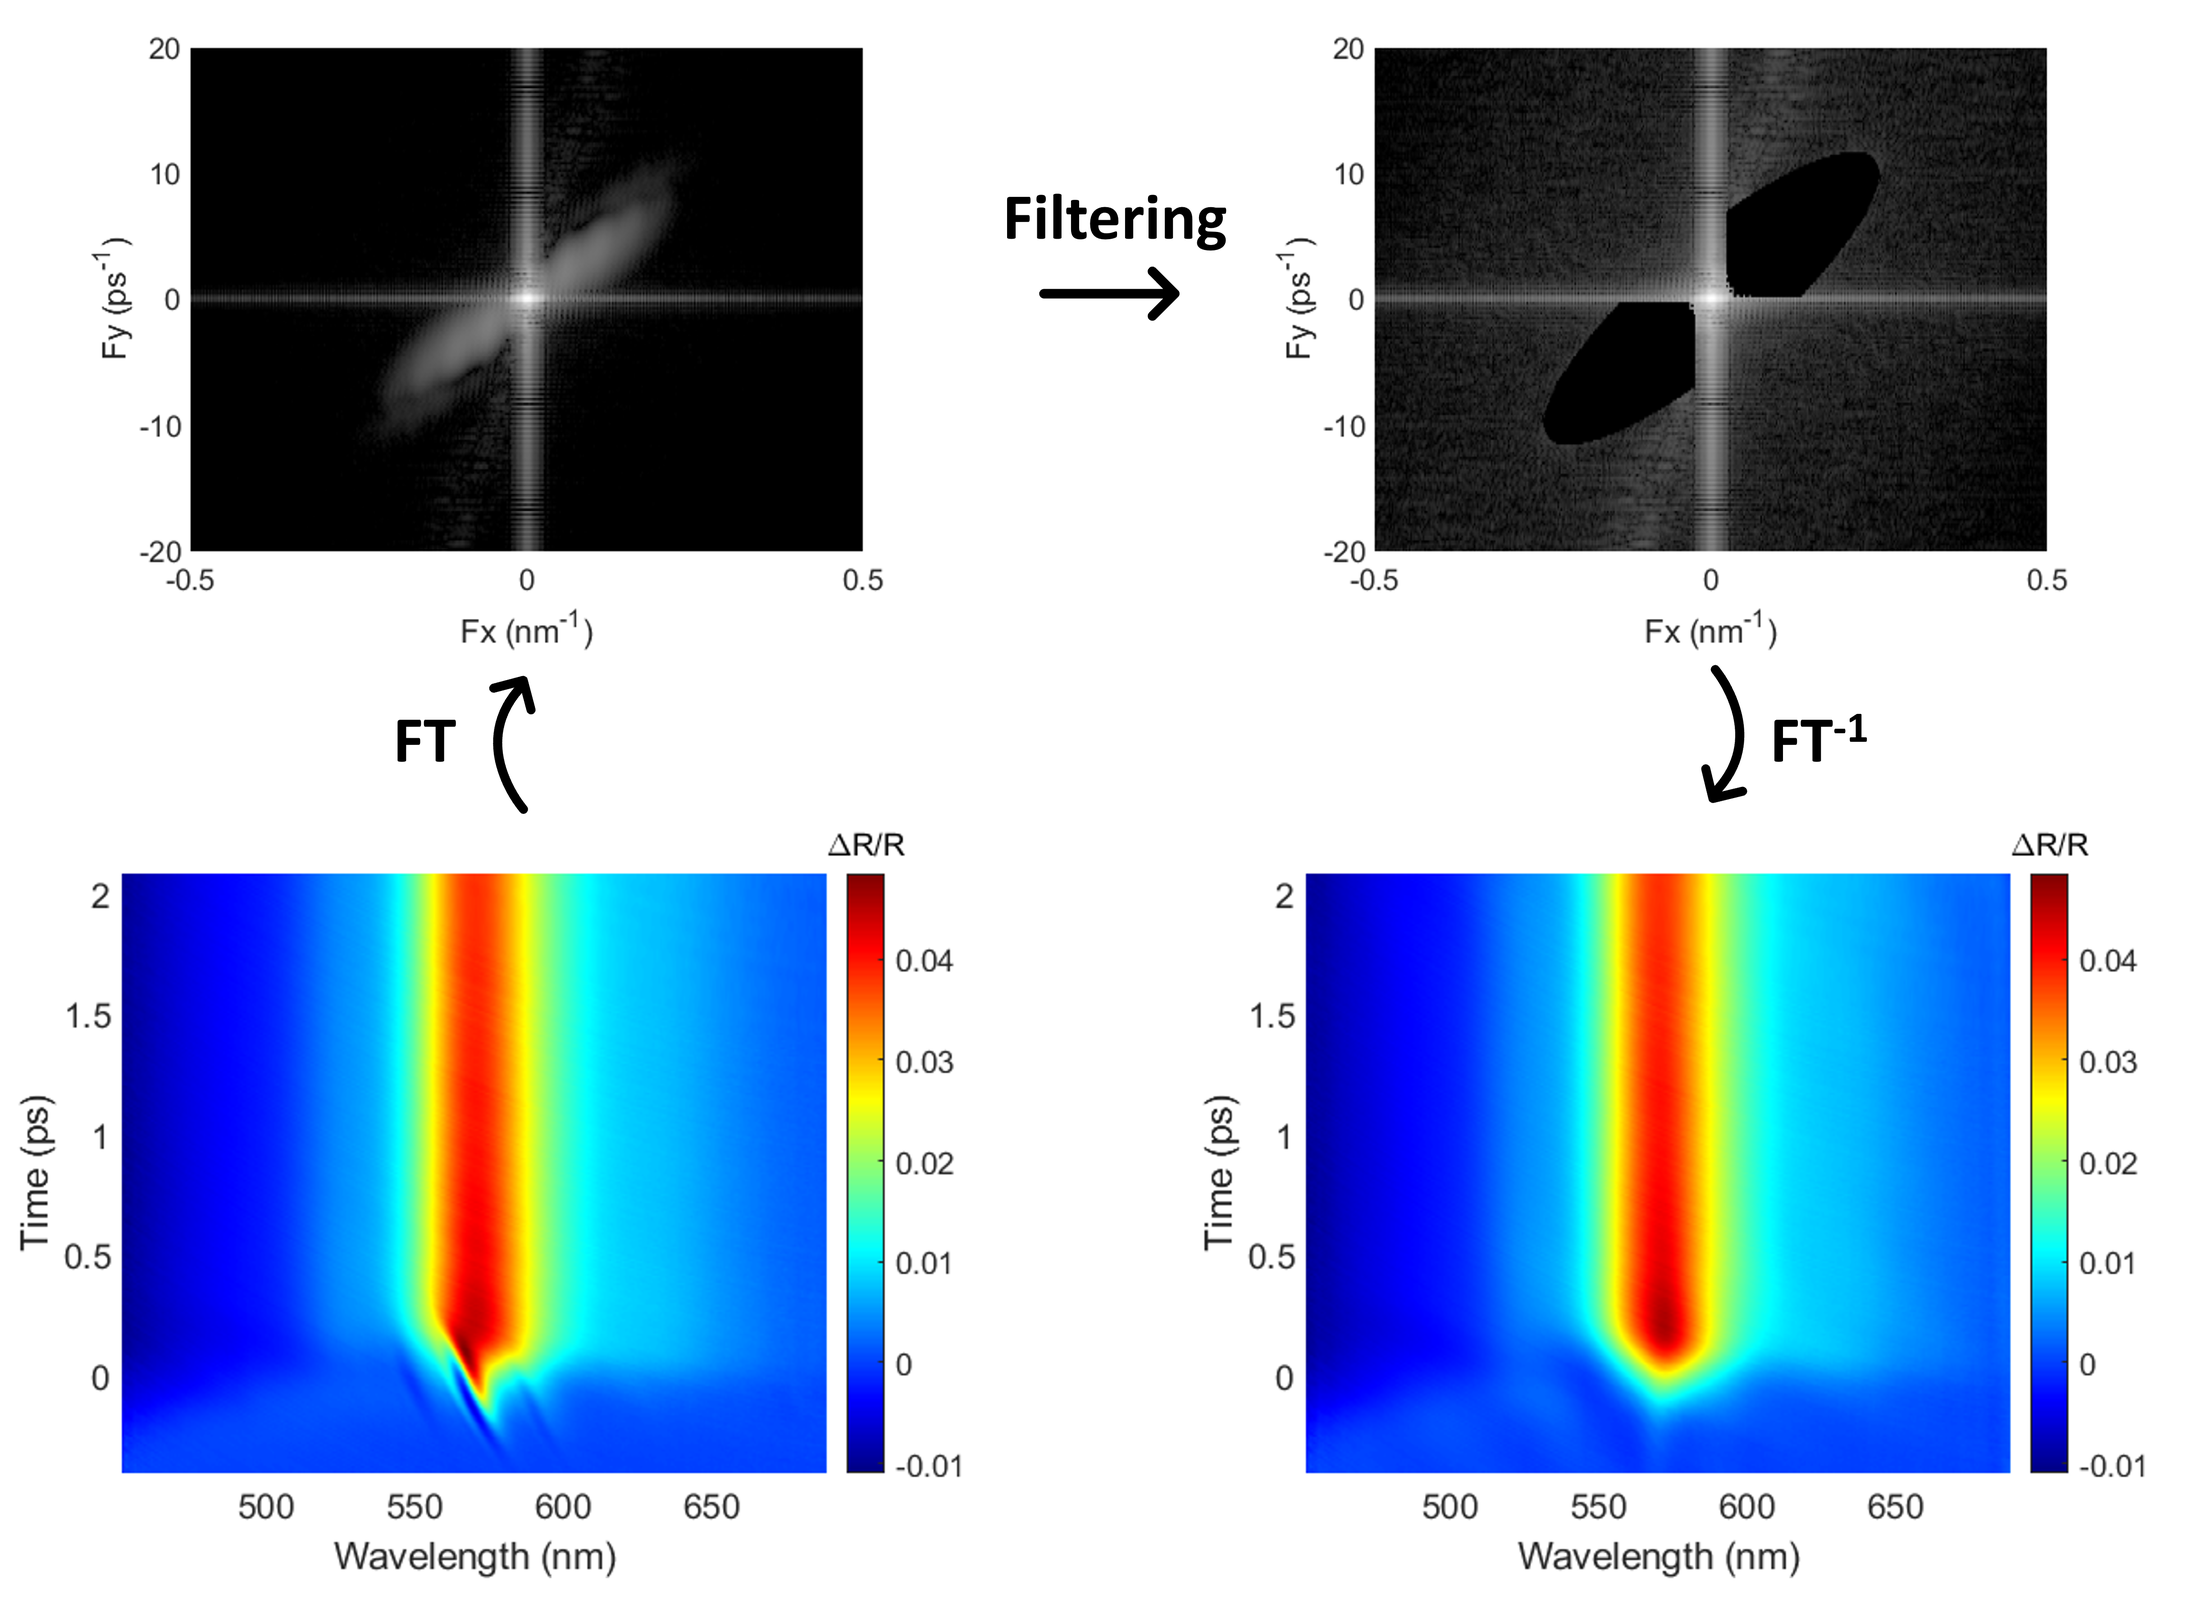
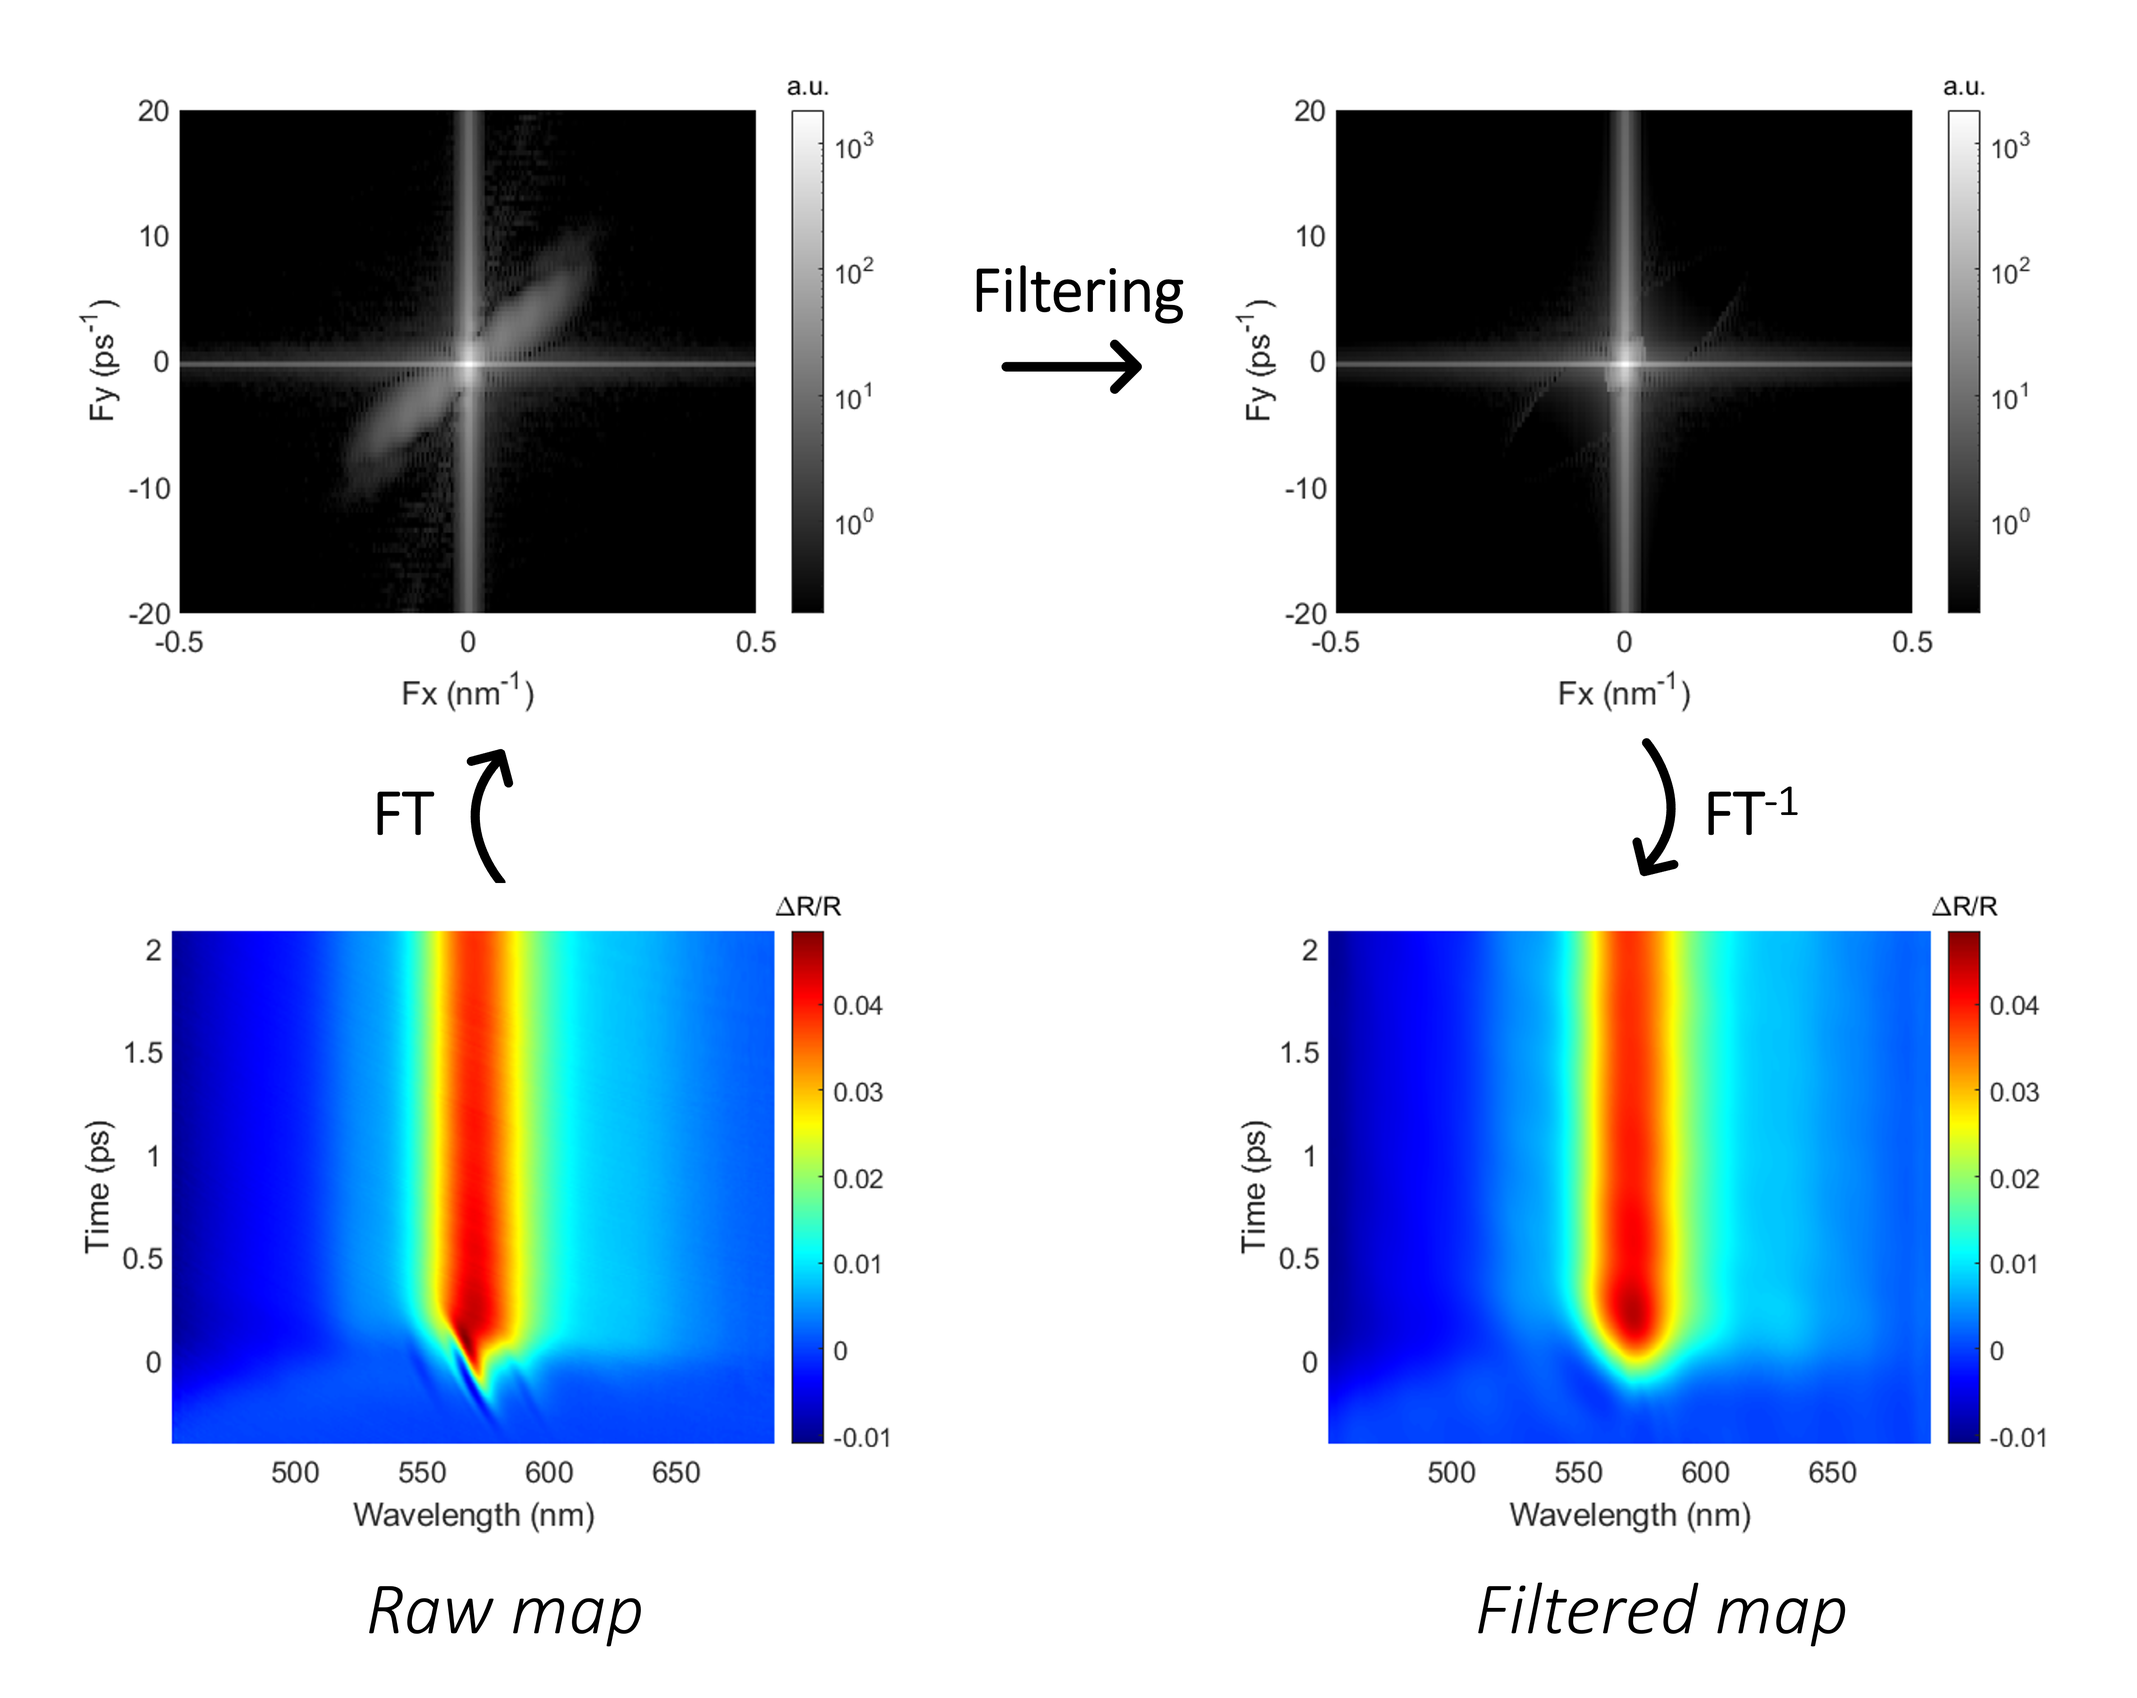
Updated README.md and LICENSE files

diff --git a/transient_grating_artifact_filter.py b/transient_grating_artifact_filter.py
@@ -249,7 +249,7 @@ class Filter:
             self.ellipse_short_axis_radius,
             self.img_binary_ellipse_rgb,
         ) = self.define_filter_ellipse()
-        self.f: np.ndarray = self.build_filter()
+        self.f: np.ndarray = self.build_binary_image_filter()
 
     @staticmethod
     def binarize_image(img: np.ndarray, threshold: float) -> np.ndarray:
@@ -314,6 +314,64 @@ class Filter:
             )
         else:
             return 0.0
+
+    def plot_filter_images(self, filter_image: np.ndarray):
+        """
+        Show images of:
+            1) thresholded pixels used to determine the filter geometry
+            2) resulting binary filter image
+            3) outline of the ellipse superimposed on the periodic component DFT
+
+        Args:
+            filter_image (np.ndarray): binary filter image
+
+        Returns: None
+
+        """
+
+        fig, axs = plt.subplots(3)
+
+        # Draw thresholded ellipse binary image with major/minor axes
+        axs[0].set(
+            title="Filter ellipse binary image: "
+            f"θ = {self.artifact.angle:.1f}°, "
+            f"threshold = {self.threshold_ellipse:.2f}\n"
+            f"Long axis radius = {self.ellipse_long_axis_radius} pixels, "
+            f"short axis radius = {self.ellipse_short_axis_radius} pixels"
+        )
+        axs[0].imshow(self.img_binary_ellipse_rgb, cmap="gray")
+
+        # Draw binary filter image
+        axs[1].set(title="Filter image")
+        axs[1].imshow(filter_image, cmap="gray")
+
+        # Draw filter ellipse outline over periodic component DFT
+        axs[2].set(
+            title="Filter ellipse outline over binarized periodic component DFT"
+            "\nNB: data limited to 4 decade dynamic range in binarization"
+        )
+        ellipse_image_binary_outline: np.ndarray = np.zeros(
+            (self.img_specs.height, self.img_specs.width), dtype=np.uint8
+        )
+        cv.ellipse(
+            ellipse_image_binary_outline,
+            (self.img_specs.x0, self.img_specs.y0),
+            (self.ellipse_long_axis_radius, self.ellipse_short_axis_radius),
+            -self.artifact.angle,
+            0,
+            360,
+            1,
+            1,
+        )
+        periodic_with_ellipse_outline: np.ndarray = np.copy(self.img_dft_mag)
+        periodic_with_ellipse_outline[ellipse_image_binary_outline == 1] = np.max(
+            self.img_dft_mag
+        )
+        axs[2].imshow(periodic_with_ellipse_outline, cmap="gray")
+
+        plt.tight_layout()
+
+        return None
 
     def define_filter_ellipse(self) -> Tuple[int, int, np.ndarray]:
         """
@@ -408,10 +466,14 @@ class Filter:
             img_binary_ellipse_rgb,
         )
 
-    def build_filter(self) -> np.ndarray:
+    def build_binary_image_filter(self) -> np.ndarray:
         """
-        Build filter image: ellipse (stop band) minus the pass-band components (central
-                            cutout, central cross, upper-left/lower-right quadrants)
+        Build filter image:
+            stop-band: ellipse
+            pass-bands:
+                - central cutout
+                - central cross (optional)
+                - upper-left/lower-right quadrants (optional)
 
         Returns: binary image filter
 
@@ -475,46 +537,7 @@ class Filter:
         # For debugging/validation, show images of (1) the thresholded pixels used to
         # determine the filter geometry, (2) the resulting binary filter image,
         # and (3) the outline of the ellipse superimposed on the periodic component DFT
-        fig, axs = plt.subplots(3)
-
-        # Draw thresholded ellipse binary image with major/minor axes
-        axs[0].set(
-            title="Filter ellipse binary image: threshold = "
-            f"{self.threshold_ellipse:.2f}, "
-            f"long axis radius = {self.ellipse_long_axis_radius} pixels, "
-            f"short axis radius = {self.ellipse_short_axis_radius} pixels"
-        )
-        axs[0].imshow(self.img_binary_ellipse_rgb, cmap="gray")
-
-        # Draw binary filter image
-        axs[1].set(title="Filter image")
-        axs[1].imshow(filter_image, cmap="gray")
-
-        # Draw filter ellipse outline over periodic component DFT
-        axs[2].set(
-            title="Filter ellipse outline over binarized periodic component DFT"
-            "\nNB: data limited to 4 decade dynamic range in binarization"
-        )
-        ellipse_image_binary_outline: np.ndarray = np.zeros(
-            (self.img_specs.height, self.img_specs.width), dtype=np.uint8
-        )
-        cv.ellipse(
-            ellipse_image_binary_outline,
-            (self.img_specs.x0, self.img_specs.y0),
-            (self.ellipse_long_axis_radius, self.ellipse_short_axis_radius),
-            -self.artifact.angle,
-            0,
-            360,
-            1,
-            1,
-        )
-        periodic_with_ellipse_outline: np.ndarray = np.copy(self.img_dft_mag)
-        periodic_with_ellipse_outline[ellipse_image_binary_outline == 1] = np.max(
-            self.img_dft_mag
-        )
-        axs[2].imshow(periodic_with_ellipse_outline, cmap="gray")
-
-        plt.tight_layout()
+        self.plot_filter_images(filter_image=filter_image)
 
         # Return filter
         return filter_image
